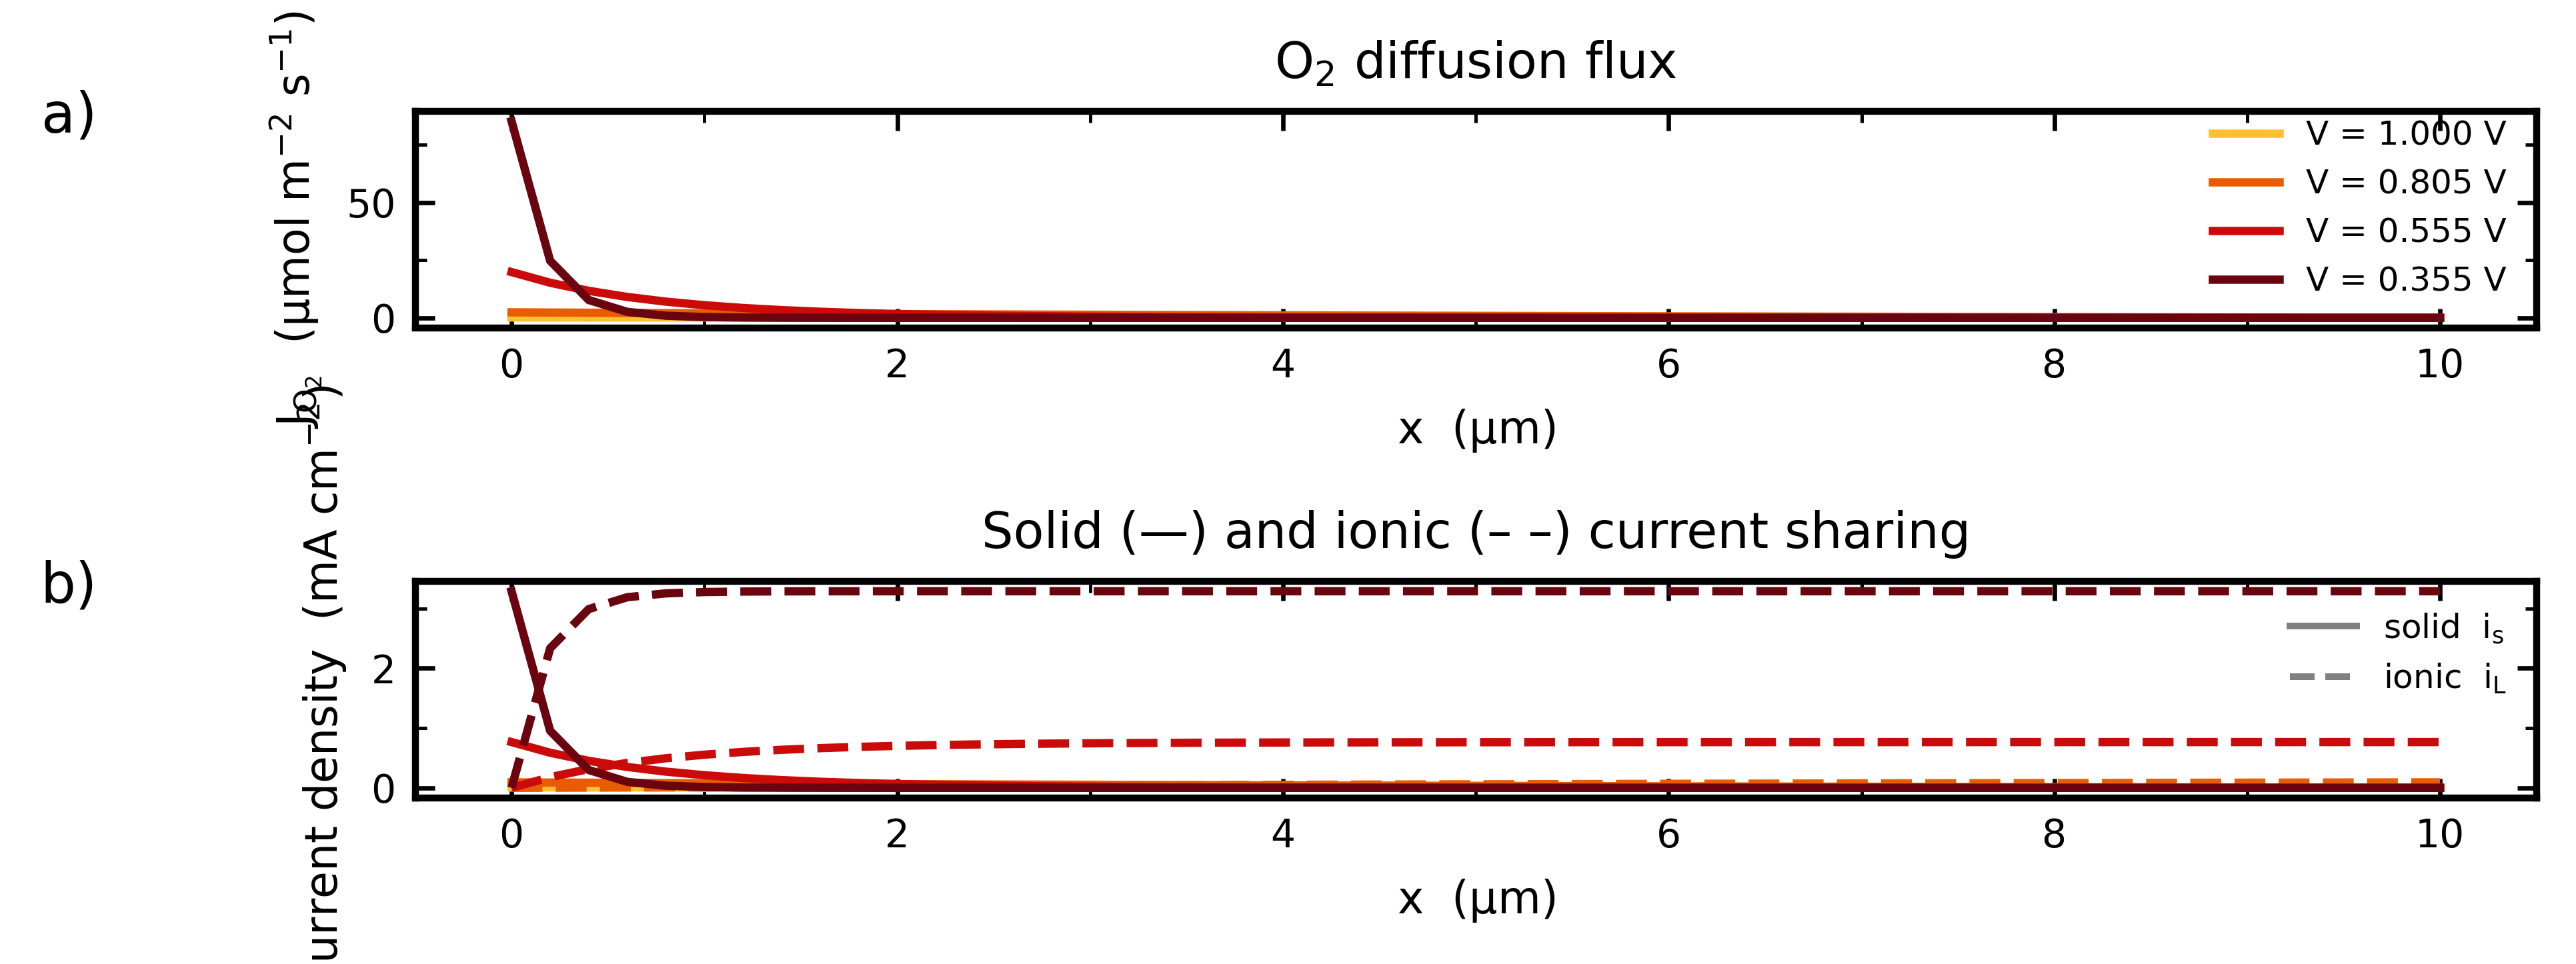
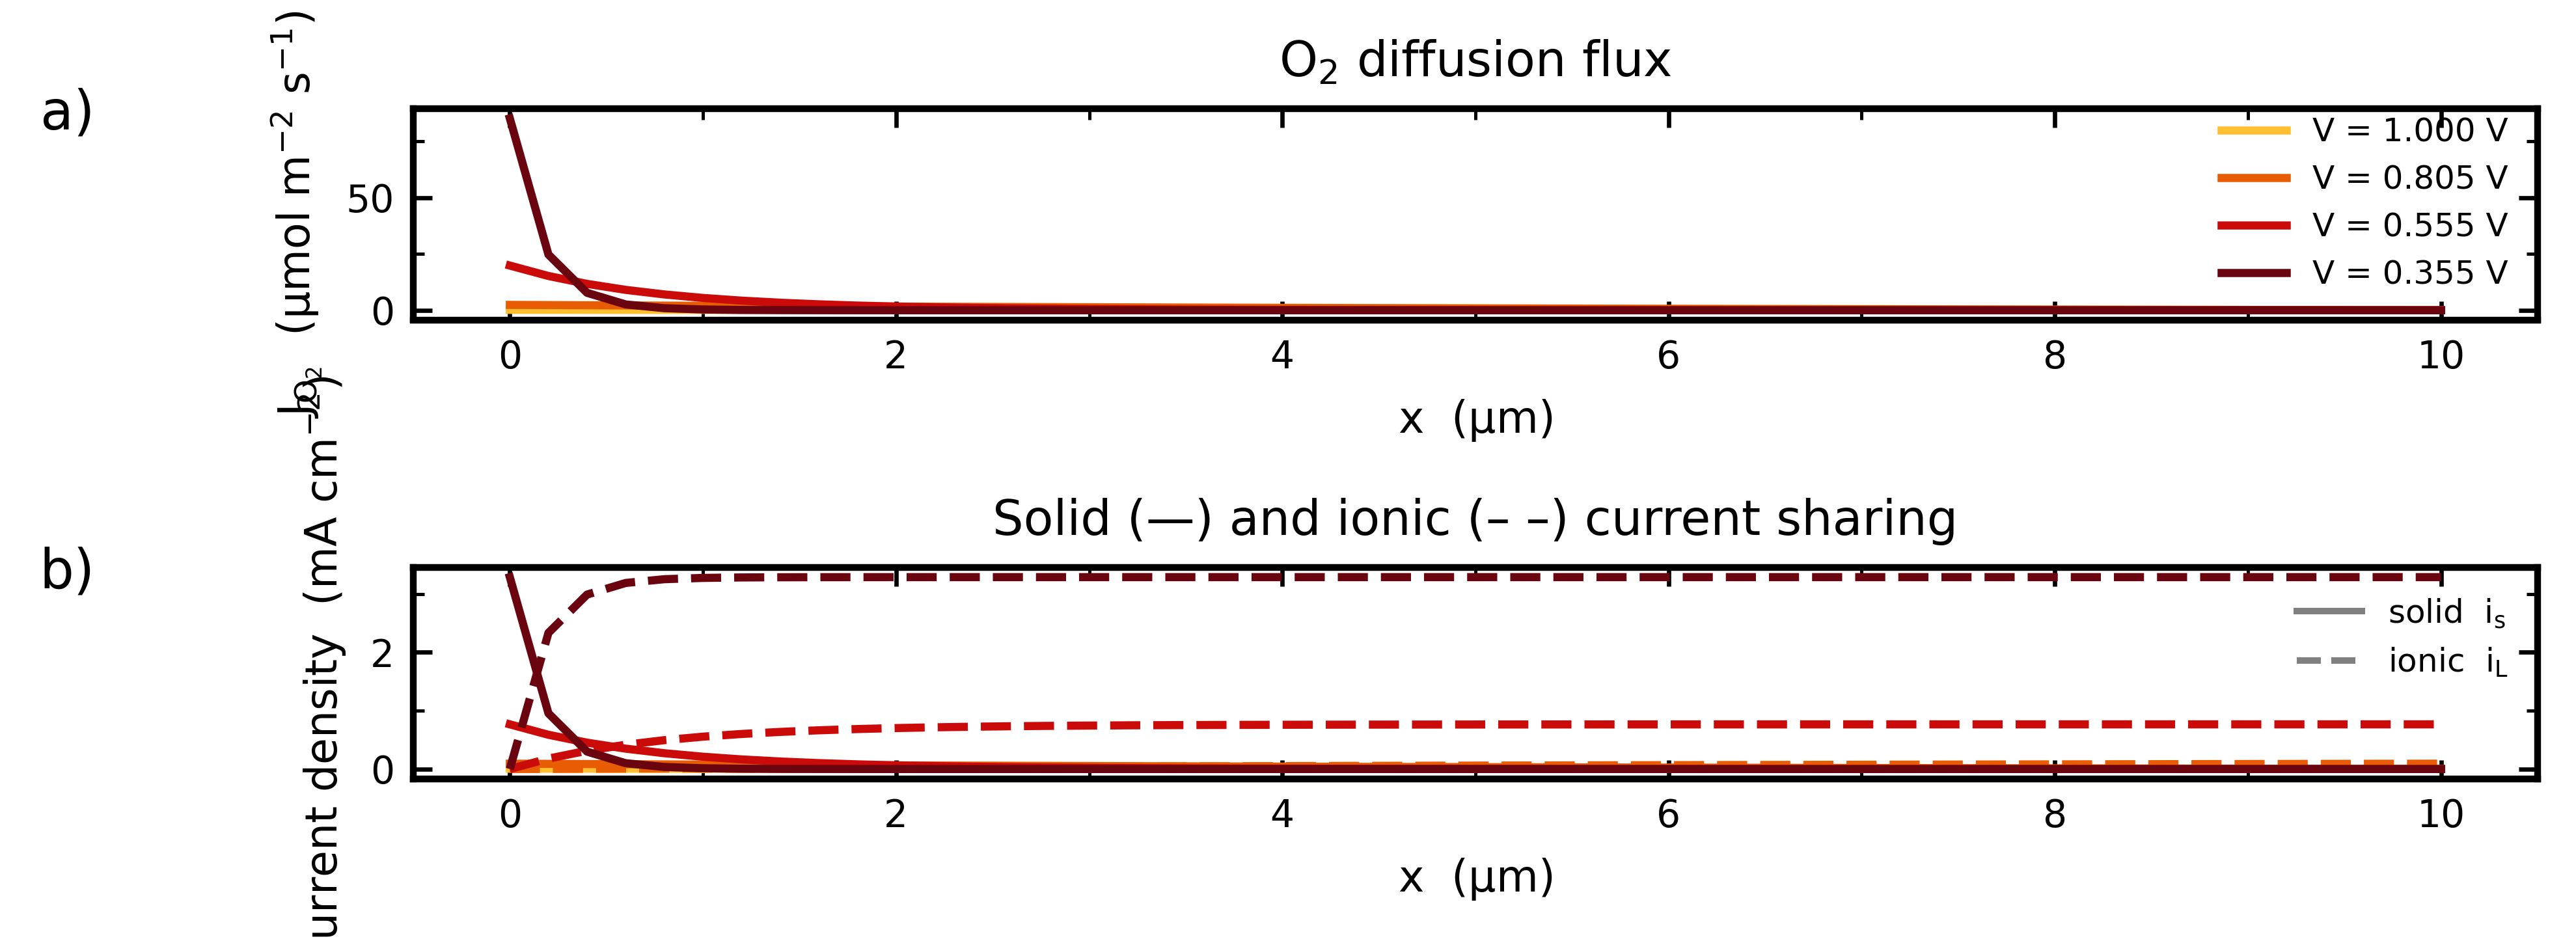
Fix unreadable figures: clip margins and 3→2 panel Stage 3
- plot_results.py: add subplots_adjust(left=0.14) in plot_flux_profiles()
  to prevent the y-axis label 'Current density' being clipped on the left
- run_stage3.py: reduce Stage 3 figure from 3 panels at 9.75" to 2 panels
  at 6.5" (matches all other chapter figures); drops the middle O2 partial
  pressure diagnostic panel so text is legible when inserted in the docx
- Regenerated stage1_flux_profiles.png and stage3_results.png
- Updated Python_for_Multiphysics_Outline_edited.docx with new figures

https://claude.ai/code/session_012yGGMV6iaXGRq7okqrxmoY

diff --git a/run_stage3.py b/run_stage3.py
@@ -179,7 +179,7 @@ def main():
 
 
 def _plot_stage3(vs1, sols1, vs3, sols3, mesh_gdl, mesh_cl, p):
-    """Stage 3 diagnostic plots: polarization overlay + O2 profiles."""
+    """Stage 3 diagnostic plots: polarization overlay + ionomer O2 profiles."""
     import matplotlib.pyplot as plt
     from customplot import gengrid, rainbow_2, warm_sequential
     from assembly_stage1 import compute_current as cc1, unpack
@@ -191,37 +191,23 @@ def _plot_stage3(vs1, sols1, vs3, sols3, mesh_gdl, mesh_cl, p):
     J3 = np.array([compute_current_s3(u, mesh_gdl, mesh_cl, p) * 1e-4 * 1e3
                    for u in sols3])
 
-    fig, axes, _ = gengrid(1, 3, size_inches=(9.75, 3.0), ticklabel_size=7)
+    # Two panels at the same width used by every other figure in the chapter
+    fig, axes, _ = gengrid(1, 2, size_inches=(6.5, 2.5), ticklabel_size=7)
 
     # ── Panel 1: polarization overlay ────────────────────────────────────────
-    axes[0].plot(J1, vs1, marker="o", ms=4, lw=1.5, color=rainbow_2[1],
+    axes[0].plot(J1, vs1, marker="o", ms=3, lw=1.5, color=rainbow_2[1],
                  label="Stage 1 (ionomer only)")
-    axes[0].plot(J3, vs3, marker="s", ms=4, lw=1.5, ls="--", color=rainbow_2[4],
+    axes[0].plot(J3, vs3, marker="s", ms=3, lw=1.5, ls="--", color=rainbow_2[4],
                  label="Stage 3 (gas transport)")
     axes[0].set_xlabel("Current density  (mA cm$^{-2}$)", fontsize=8)
-    axes[0].set_ylabel("$V_{cathode}$  (V vs SHE)", fontsize=8)
+    axes[0].set_ylabel("$V_{\\mathrm{cathode}}$  (V vs SHE)", fontsize=8)
     axes[0].set_title("Polarization: Stage 1 vs Stage 3", fontsize=9)
-    axes[0].legend(fontsize=7, frameon=False)
+    axes[0].legend(fontsize=6, frameon=False)
 
-    # ── Panel 2: O2 gas partial pressure across GDL+CL at highest current ────
-    u3_hc  = sols3[-1]
-    xg_um  = (mesh_gdl.xc - mesh_gdl.L) * 1e6   # negative (GDL is x<0)
+    # ── Panel 2: ionomer O2 profiles at several voltages ─────────────────────
     xc_um  = mesh_cl.xc * 1e6
-    ln_c_gdl, ln_c_cl, _, _ = unpack_s3(u3_hc, NG, NC)
-    p_O2_gdl = np.exp(ln_c_gdl) * p.R * p.T / 101325.0
-    p_O2_cl  = np.exp(ln_c_cl)  * p.R * p.T / 101325.0
-    axes[1].plot(xg_um, p_O2_gdl * 1e3, lw=1.5, color=rainbow_2[0], label="GDL")
-    axes[1].plot(xc_um, p_O2_cl  * 1e3, lw=1.5, color=rainbow_2[4], label="CL pores")
-    axes[1].axvline(0, color="k", lw=0.8, ls=":", label="GDL/CL interface")
-    axes[1].set_xlabel("x  (um from GDL/CL interface)", fontsize=8)
-    axes[1].set_ylabel("$p_{O_2}$  (matm)", fontsize=8)
-    axes[1].set_title(f"O2 partial pressure,  V = {vs3[-1]:.3f} V", fontsize=9)
-    axes[1].legend(fontsize=7, frameon=False)
-
-    # ── Panel 3: O2 profiles at several voltages ──────────────────────────────
     n3 = len(vs3)
-    idx_samples = [0, n3//4, n3//2, 3*n3//4, n3-1]
-    # Sequential warm ramp: pale (near OCV) -> dark (high current)
+    idx_samples = [0, n3 // 4, n3 // 2, 3 * n3 // 4, n3 - 1]
     cidx   = np.linspace(2, len(warm_sequential) - 1, len(idx_samples)).round().astype(int)
     colors = [warm_sequential[i] for i in cidx]
     for idx, col in zip(idx_samples, colors):
@@ -229,18 +215,19 @@ def _plot_stage3(vs1, sols1, vs3, sols3, mesh_gdl, mesh_cl, p):
         V3  = vs3[idx]
         _, ln_c_cl_i, _, _ = unpack_s3(u3, NG, NC)
         c_ion = p.K_eq_gas_ion * np.exp(ln_c_cl_i)
-        axes[2].plot(xc_um, c_ion, color=col, lw=1.5, label=f"V={V3:.3f}")
+        axes[1].plot(xc_um, c_ion, color=col, lw=1.5, label=f"V={V3:.3f}")
     # Stage 1 at highest current for comparison
     u1_hc = sols1[-1]
     ln1, _, _ = unpack(u1_hc, NC)
-    axes[2].plot(xc_um, np.exp(ln1), lw=1.2, ls="--", color=rainbow_2[1],
+    axes[1].plot(xc_um, np.exp(ln1), lw=1.2, ls="--", color=rainbow_2[1],
                  label=f"S1 V={vs1[-1]:.3f}")
-    axes[2].set_xlabel("x  (um)", fontsize=8)
-    axes[2].set_ylabel("$c_{O_2}$ ionomer  (mol m$^{-3}$)", fontsize=8)
-    axes[2].set_title("Ionomer O2 profiles (Stage 3 vs Stage 1)", fontsize=9)
-    axes[2].legend(fontsize=6, frameon=False)
+    axes[1].set_xlabel("$x$  (μm)", fontsize=8)
+    axes[1].set_ylabel("$c_{O_2}$ ionomer  (mol m$^{-3}$)", fontsize=8)
+    axes[1].set_title("Ionomer O$_2$ profiles (Stage 3 vs Stage 1)", fontsize=9)
+    axes[1].legend(fontsize=6, frameon=False)
 
     fig.tight_layout()
+    fig.subplots_adjust(left=0.12)
     fig.savefig("stage3_results.png", bbox_inches="tight")
     plt.close()
     print("  Saved: stage3_results.png")

diff --git a/plot_results.py b/plot_results.py
@@ -378,6 +378,7 @@ def plot_flux_profiles(
     )
 
     fig.tight_layout()
+    fig.subplots_adjust(left=0.14)   # prevent y-axis label clipping
     if save_path:
         fig.savefig(save_path, bbox_inches="tight")
         print(f"  Saved: {save_path}")